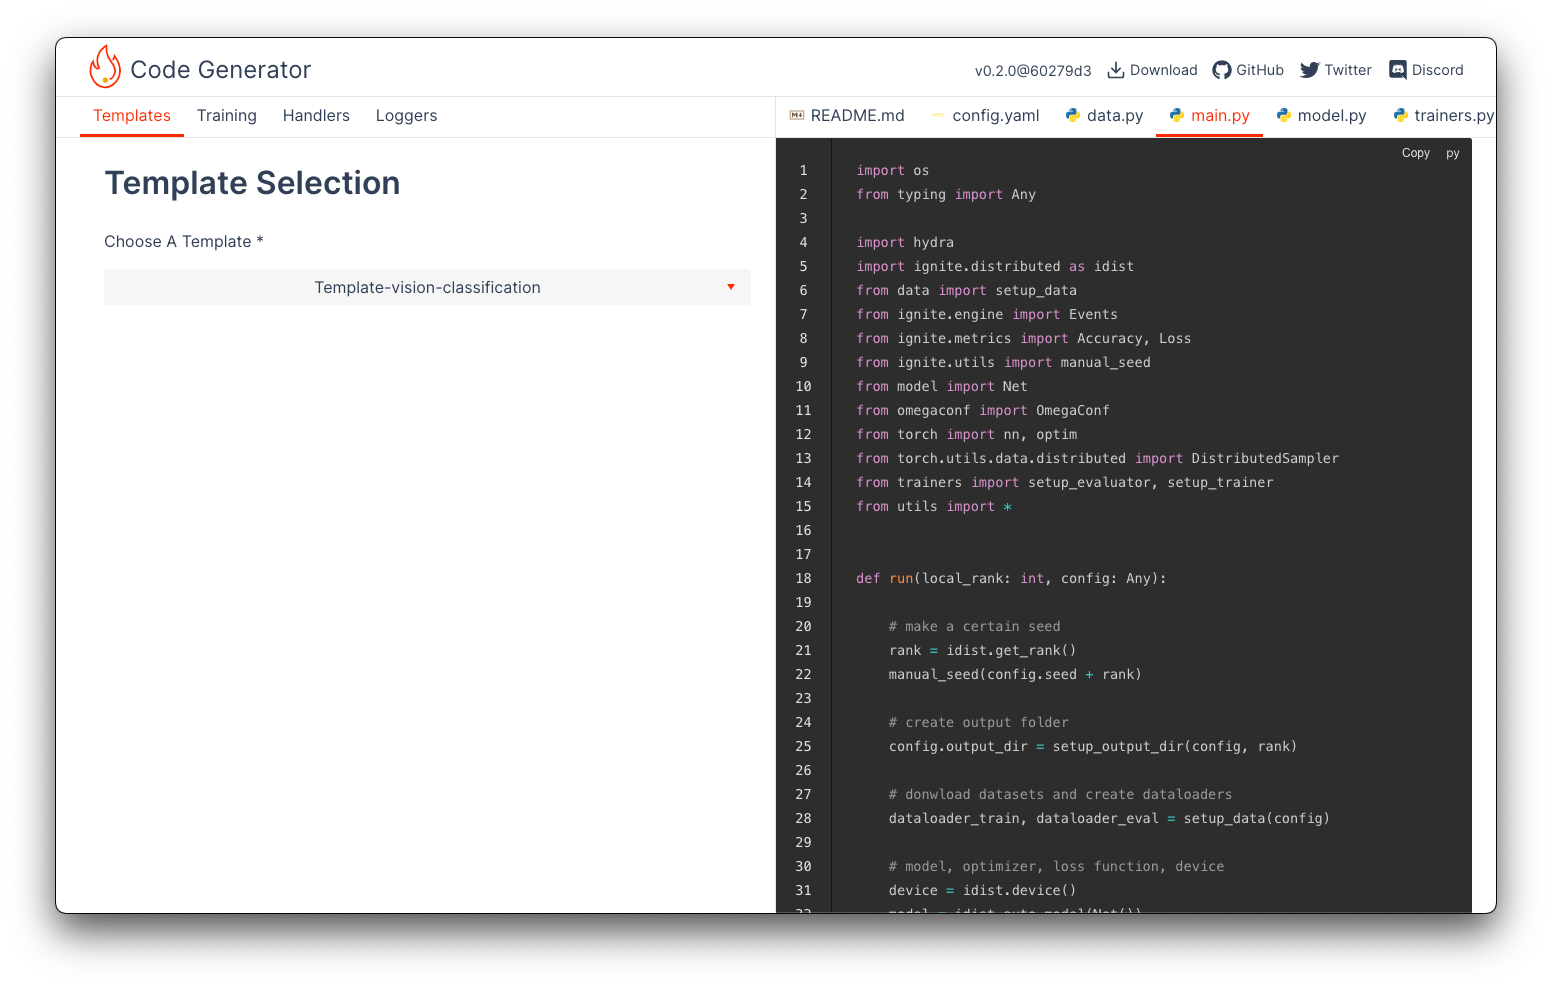
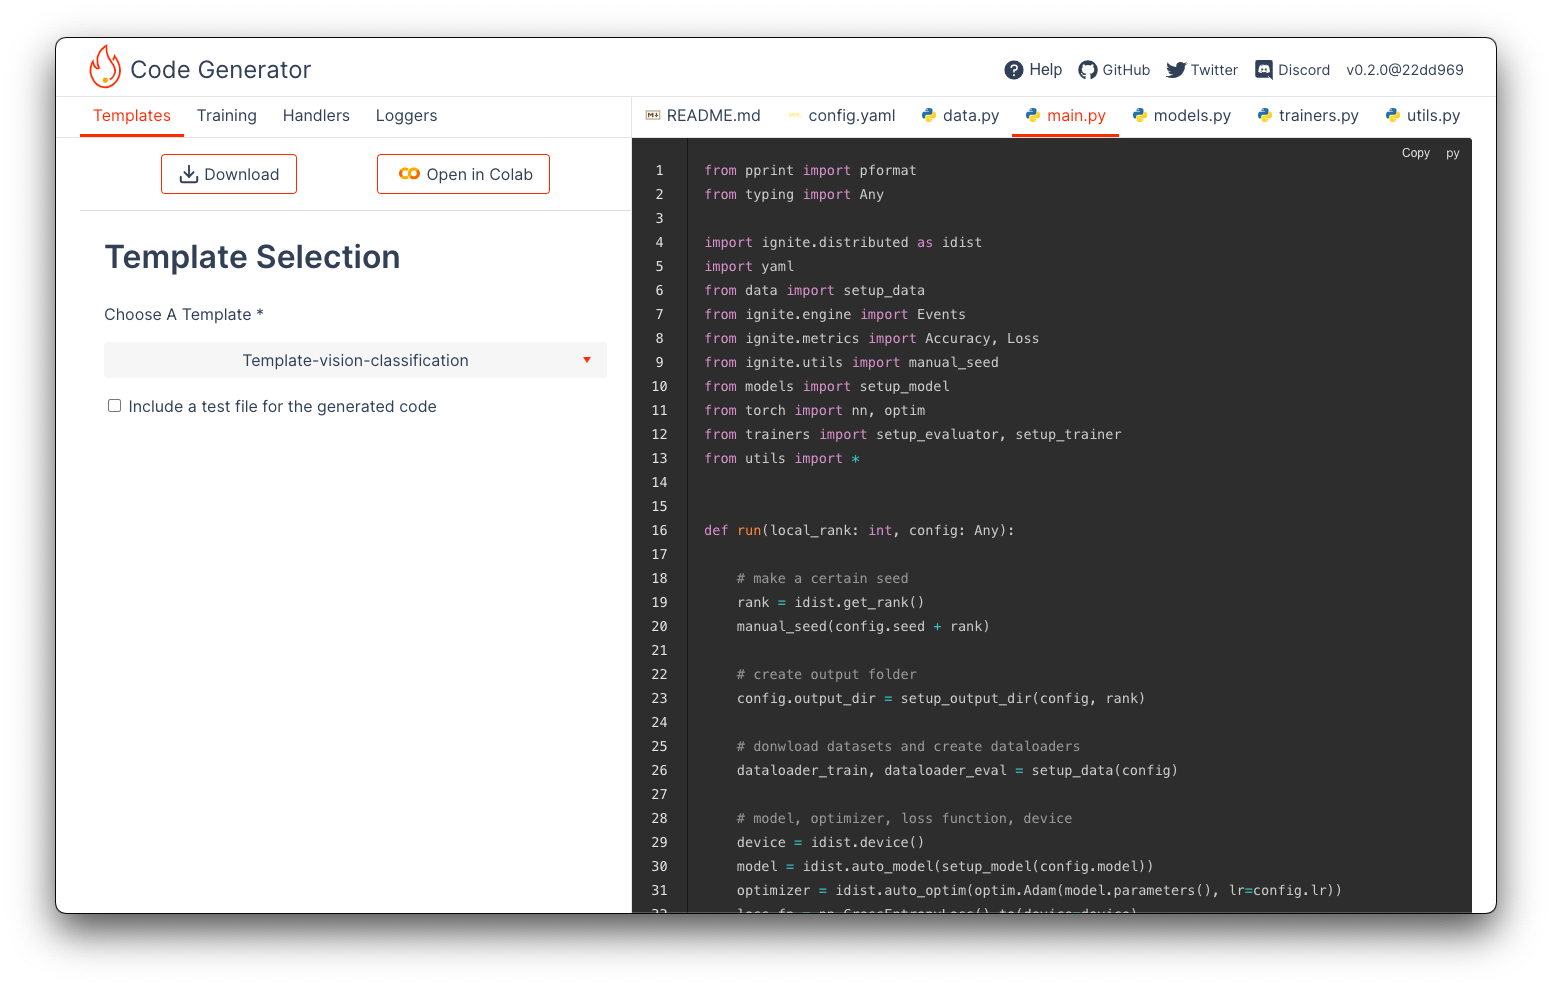
release: v0.2.0

diff --git a/CHANGELOG.md b/CHANGELOG.md
@@ -1,3 +1,54 @@
+# [0.2.0](https://github.com/pytorch-ignite/code-generator/compare/v0.1.0...v0.2.0) (2021-06-25)
+
+### Bug Fixes
+
+- add score_function in saving best models ([#145](https://github.com/pytorch-ignite/code-generator/issues/145)) ([c349450](https://github.com/pytorch-ignite/code-generator/commit/c349450db8af7e03357d687b7d810c36221084e0))
+- address comments from [#136](https://github.com/pytorch-ignite/code-generator/issues/136) ([#137](https://github.com/pytorch-ignite/code-generator/issues/137)) ([9682276](https://github.com/pytorch-ignite/code-generator/commit/96822767d0ba4595447d7de3a48b23ff93c5b447))
+- bump epochs batch size to larger ones, update READMEs ([#155](https://github.com/pytorch-ignite/code-generator/issues/155)) ([2145a85](https://github.com/pytorch-ignite/code-generator/commit/2145a858ad5008da817d652a011e46487f016d29))
+- change `replaceAll` to `replace` ([ee32211](https://github.com/pytorch-ignite/code-generator/commit/ee32211c4d6235eb984fc01a38f2ae721afb25db))
+- change back to have previous UI ([#126](https://github.com/pytorch-ignite/code-generator/issues/126)) ([7d1e510](https://github.com/pytorch-ignite/code-generator/commit/7d1e51076d2f617c5efdec780838909b48a653b0))
+- correct naming for loggers ([#149](https://github.com/pytorch-ignite/code-generator/issues/149)) ([a802644](https://github.com/pytorch-ignite/code-generator/commit/a802644402545a1c1f86fb3302686ac49e9e5bc3))
+- default value in store, save on mount ([#141](https://github.com/pytorch-ignite/code-generator/issues/141)) ([d799a94](https://github.com/pytorch-ignite/code-generator/commit/d799a947df5a14768b4cc1c35fc26655d5b0b74d))
+- disable clicking if no template is chosen ([#153](https://github.com/pytorch-ignite/code-generator/issues/153)) ([7a9e176](https://github.com/pytorch-ignite/code-generator/commit/7a9e176e83320bdd3042906aa45edfab16cb85a6))
+- do not download VOCSegmentation by default ([#144](https://github.com/pytorch-ignite/code-generator/issues/144)) ([cff1946](https://github.com/pytorch-ignite/code-generator/commit/cff194697cba706a374a0365d7a1c5393d54e066))
+- download after template, move download & colab under each left tab ([#161](https://github.com/pytorch-ignite/code-generator/issues/161)) ([0677621](https://github.com/pytorch-ignite/code-generator/commit/067762107ca6e34b794e154d26a757c545843bd3))
+- empty `store.code` after changing templates ([#138](https://github.com/pytorch-ignite/code-generator/issues/138)) ([f0d3094](https://github.com/pytorch-ignite/code-generator/commit/f0d3094e65832640a13d8e34a41d8d51fc197b31)), closes [/github.com/pytorch-ignite/code-generator/pull/131#issuecomment-848225158](https://github.com//github.com/pytorch-ignite/code-generator/pull/131/issues/issuecomment-848225158)
+- include pytest in requirements.txt ([#150](https://github.com/pytorch-ignite/code-generator/issues/150)) ([917867c](https://github.com/pytorch-ignite/code-generator/commit/917867c2a6aac0f4e23ac2b1b156a456b0cfa787))
+- make sensible default for handlers ([#154](https://github.com/pytorch-ignite/code-generator/issues/154)) ([90b8649](https://github.com/pytorch-ignite/code-generator/commit/90b8649188e32ae8e3dd4bc6a5d0b23b96b57c45))
+- make UI consistent across browsers ([#120](https://github.com/pytorch-ignite/code-generator/issues/120)) ([18298cf](https://github.com/pytorch-ignite/code-generator/commit/18298cf6ccdc7f000a1c35b9df973bf3d9de8082))
+- margin 0 on mobile ([#140](https://github.com/pytorch-ignite/code-generator/issues/140)) ([bf9e534](https://github.com/pytorch-ignite/code-generator/commit/bf9e534bca2f75092559f0bf8af421a59d1f16c8))
+- no alpha in message box bg, origin url in dev mode, change instruction for mobile ([#125](https://github.com/pytorch-ignite/code-generator/issues/125)) ([b662e06](https://github.com/pytorch-ignite/code-generator/commit/b662e06fa839b29eaefcd9c3e1f3ba5720eee394))
+- open in colab ([#162](https://github.com/pytorch-ignite/code-generator/issues/162)) ([1564bb9](https://github.com/pytorch-ignite/code-generator/commit/1564bb99e1d5c5ff8afb3afe18dcddd2011aa5ce))
+- padding-right for right-pane-tabs ([#139](https://github.com/pytorch-ignite/code-generator/issues/139)) ([3bb7d50](https://github.com/pytorch-ignite/code-generator/commit/3bb7d501c047d93962645c78c94fff6eb18c27ee))
+- restructure and add more Ignite core features ([#116](https://github.com/pytorch-ignite/code-generator/issues/116)) ([7483c04](https://github.com/pytorch-ignite/code-generator/commit/7483c0483ee1fc9c4c59796562aa11308bb5a85d))
+- scroll to top when navigate ([#151](https://github.com/pytorch-ignite/code-generator/issues/151)) ([ea8e4b7](https://github.com/pytorch-ignite/code-generator/commit/ea8e4b790a877bb4ad640fa3a72825d0dff3ef4b))
+- set 2em instead of 2rem for hamburger icon ([fec7efd](https://github.com/pytorch-ignite/code-generator/commit/fec7efda2004b0b3c1e7e2552b393bce6de70140))
+- sidebar open from right for right pane on mobile ([#143](https://github.com/pytorch-ignite/code-generator/issues/143)) ([027d036](https://github.com/pytorch-ignite/code-generator/commit/027d03653489d822550b9882b215cba43239c1f0))
+- split the panes by 40/60 ([#148](https://github.com/pytorch-ignite/code-generator/issues/148)) ([04023f5](https://github.com/pytorch-ignite/code-generator/commit/04023f5a14de908ef921d3f18f54e1f724154d2f))
+- whitespaces and \n(s) ([#152](https://github.com/pytorch-ignite/code-generator/issues/152)) ([7572419](https://github.com/pytorch-ignite/code-generator/commit/7572419f12fb44833a5320f67aa93fc9818bb9b5))
+- **sampler:** call set_epoch every epoch start in distributed training ([#130](https://github.com/pytorch-ignite/code-generator/issues/130)) ([0c19ad2](https://github.com/pytorch-ignite/code-generator/commit/0c19ad2f6b98168bd31550ae8b635ca2401ca6cf))
+- **template-segmentation:** call .step() / attach to engine ([#134](https://github.com/pytorch-ignite/code-generator/issues/134)) ([3806a38](https://github.com/pytorch-ignite/code-generator/commit/3806a380a526050673960b22ef3168de3fad03d4))
+
+### Features
+
+- add help for getting started steps ([#156](https://github.com/pytorch-ignite/code-generator/issues/156)) ([7834585](https://github.com/pytorch-ignite/code-generator/commit/78345853010f177c8bdf0e95c19ead55d4e3d6f7))
+- add open in colab ([#160](https://github.com/pytorch-ignite/code-generator/issues/160)) ([c5d4ad8](https://github.com/pytorch-ignite/code-generator/commit/c5d4ad80719f1e183b0f0e42765ec5a03bdf9532))
+- reset state when switching routes ([#158](https://github.com/pytorch-ignite/code-generator/issues/158)) ([44c2a45](https://github.com/pytorch-ignite/code-generator/commit/44c2a455291bfa979e277fd28ce183d51550a9b6))
+- **template:** add dcgan template ([#119](https://github.com/pytorch-ignite/code-generator/issues/119)) ([c8cc755](https://github.com/pytorch-ignite/code-generator/commit/c8cc755a4c5be9a03a4d5801b9ec6d14186d5f1d))
+- **template:** complete cifar10 classification ([#118](https://github.com/pytorch-ignite/code-generator/issues/118)) ([41e2d14](https://github.com/pytorch-ignite/code-generator/commit/41e2d14cf5b006b94fee0eb5a875e2ac7025ab60))
+- **templates:** add a image segmentation template ([#129](https://github.com/pytorch-ignite/code-generator/issues/129)) ([9ca5397](https://github.com/pytorch-ignite/code-generator/commit/9ca5397c9fa1854117574ed91364fbdde51aa9d5))
+- **templates:** port text classification template (WIP) ([#131](https://github.com/pytorch-ignite/code-generator/issues/131)) ([7683ede](https://github.com/pytorch-ignite/code-generator/commit/7683edeb37aae848543c0eb7870872619c986aca))
+- add copy button for code ([#106](https://github.com/pytorch-ignite/code-generator/issues/106)) ([eeb3b9d](https://github.com/pytorch-ignite/code-generator/commit/eeb3b9da6c97e16c2db0b21d299cb3c12f953874))
+- add error and info message box ([#121](https://github.com/pytorch-ignite/code-generator/issues/121)) ([df41cc6](https://github.com/pytorch-ignite/code-generator/commit/df41cc6e639bd748f7ae28d5b3fe764129775185))
+- add file icons beside file names ([#110](https://github.com/pytorch-ignite/code-generator/issues/110)) ([db234b8](https://github.com/pytorch-ignite/code-generator/commit/db234b8f433432ace64ad22312c3bd5b52e75eff))
+- add getting started instruction and loading code status ([e34da95](https://github.com/pytorch-ignite/code-generator/commit/e34da956f6aa4cd00e4752827bb0a3ca6c3c4f5a))
+- add sidebar for left pane for mobile ([#108](https://github.com/pytorch-ignite/code-generator/issues/108)) ([b238b16](https://github.com/pytorch-ignite/code-generator/commit/b238b16f20fcc6145ea7c46bea1c6705eb3a7202))
+- make app looks good on mobile ([#105](https://github.com/pytorch-ignite/code-generator/issues/105)) ([6fe04bc](https://github.com/pytorch-ignite/code-generator/commit/6fe04bc2e084e0f15dd86dfbac7ad0f2dce385e5))
+- save the configs as config-lock.yaml ([6213893](https://github.com/pytorch-ignite/code-generator/commit/6213893a05aa61a1e1dcf98d6401c915b0ef094b))
+- show git commit on nav bar ([#112](https://github.com/pytorch-ignite/code-generator/issues/112)) ([53a645f](https://github.com/pytorch-ignite/code-generator/commit/53a645fb6848314f042cfa01756aeb7136a9f7a8))
+- show thanksgiving message after download ([#109](https://github.com/pytorch-ignite/code-generator/issues/109)) ([8b2e9bf](https://github.com/pytorch-ignite/code-generator/commit/8b2e9bfe55895ade1ad5c5ed5e2e6e0729dd5f04))
+- template setup and render with ejs ([#111](https://github.com/pytorch-ignite/code-generator/issues/111)) ([7fc6af1](https://github.com/pytorch-ignite/code-generator/commit/7fc6af1f73ce71fdf5cd982cb322ffc996b38f14))
+
 # [0.1.0](https://github.com/pytorch-ignite/code-generator/compare/32c8cea6dce8355764022af04b084cc597e1c5c9...v0.1.0) (2021-04-20)
 
 ### Bug Fixes
